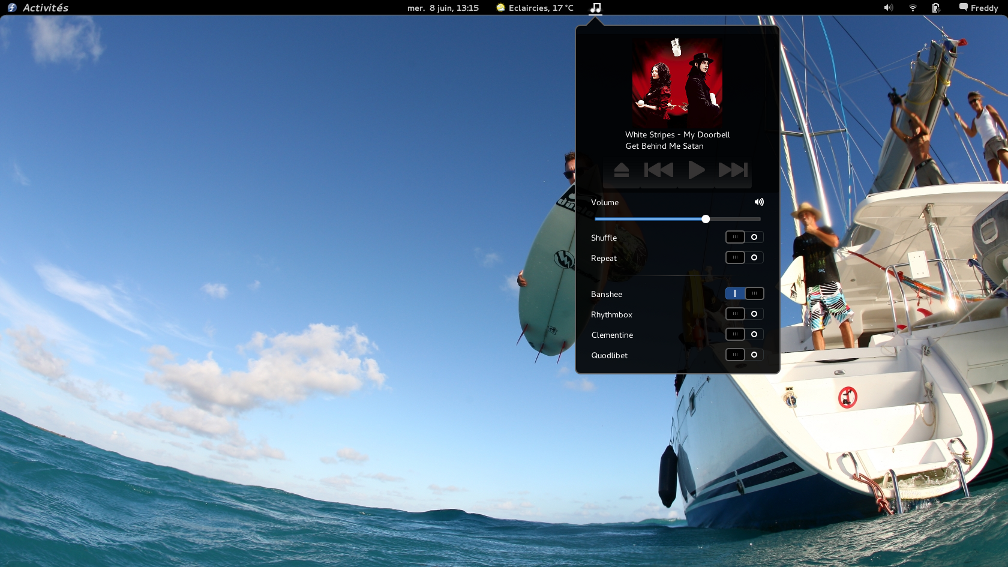
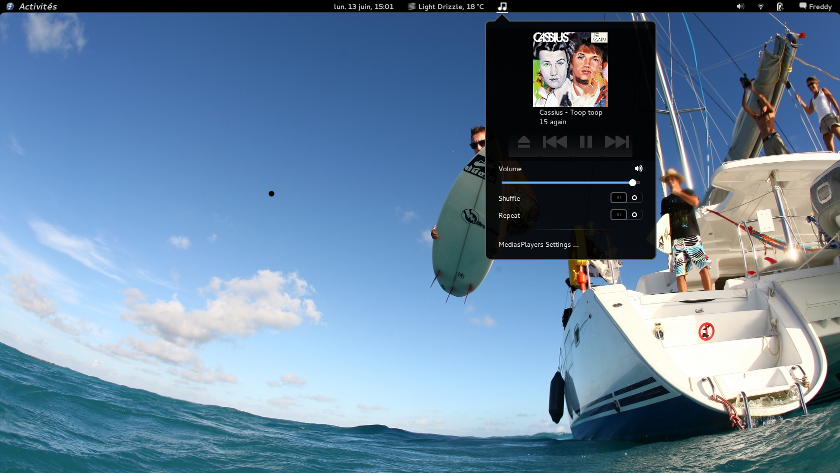
MediasPlayers settings added.

diff --git a/mediasplayers@ycdref/extension.js b/mediasplayers@ycdref/extension.js
@@ -47,10 +47,11 @@ const PropIFace = {
 const VOLUME_ADJUSTMENT_STEP = 0.05; /* Volume adjustment step in % */
 const VOLUME_NOTIFY_ID = 1;
 
-var PLAYER_DEFAULT = "org.mpris.MediaPlayer2.banshee";
+var PLAYER_DEFAULT = "";//"org.mpris.MediaPlayer2.banshee";
 var DEFAULT_APP ="banshee-media-player.desktop";
 var PLAYPAUSE=0;
 var COVER_PATH="";
+var SETTING_APP="";
 
 function Prop() {
     this._init();
@@ -180,7 +181,9 @@ Indicator.prototype = {
 
     _init: function() {
         
-	//this._settings = getSettings("org.gnome.shell.extensions.mediasplayers");
+	this._schema = new Gio.Settings({ schema: 'org.gnome.shell.extensions.mediasplayers' });
+	SETTING_APP = this._schema.get_string("player");
+
 
         this._pIcon = new St.Icon({
             icon_type: St.IconType.SYMBOLIC,
@@ -196,8 +199,6 @@ Indicator.prototype = {
         Main.panel._centerBox.add(this.actor, { y_fill: true });
         Main.panel._menus.addMenu(this.menu);
 
-        this._mediaServer = new MediaServer2Player();
-        this._prop = new Prop();
         
         this._songCover = new St.Bin({});
         this._songInformations = new St.Bin({});
@@ -219,7 +220,7 @@ Indicator.prototype = {
         infos.add_actor(this._album);
 
         let controlsBox = new St.BoxLayout();
-		this._controlsButtons.set_child(controlsBox);
+	this._controlsButtons.set_child(controlsBox);
 
         this._openApp = new St.Button({ style_class: 'button' });
         this._openApp.connect('clicked', Lang.bind(this, this._loadPlayer));
@@ -227,7 +228,7 @@ Indicator.prototype = {
         
         this._mediaPrev = new St.Button({ style_class: 'button' });
         this._mediaPrev.connect('clicked', Lang.bind(this,  
-			function () {
+	function () {
         		this._mediaServer.PreviousRemote();
 	            this._updateMetadata();
 	            this._mediaPlay.set_child(mediaPauseI);
@@ -316,10 +317,10 @@ Indicator.prototype = {
 	        this._updateSwitches();
 	    }));
 	    this.menu.addMenuItem(this._repeat);
-	    
+	    /*
 	    this.menu.addMenuItem(new PopupMenu.PopupSeparatorMenuItem());
 
-		this._banshee = new PopupMenu.PopupSwitchMenuItem(_("Banshee"), true);
+		this._banshee = new PopupMenu.PopupSwitchMenuItem(_("Banshee"), false);
 		this._banshee.connect('toggled', Lang.bind(this, function(item) {
 	            DEFAULT_APP = 'banshee-media-player.desktop';
 	            this._appPlayer("org.mpris.MediaPlayer2.banshee");
@@ -355,8 +356,46 @@ Indicator.prototype = {
 		this.menu.addMenuItem(this._banshee);
 		this.menu.addMenuItem(this._rhythmbox);
 		this.menu.addMenuItem(this._clementine);
-		this.menu.addMenuItem(this._quodlibet);
+		this.menu.addMenuItem(this._quodlibet);*/
 	    
+	switch (SETTING_APP){
+           case "1":
+		DEFAULT_APP = 'banshee-media-player.desktop';
+		PLAYER_DEFAULT = "org.mpris.MediaPlayer2.banshee";
+		/*this._banshee.setToggleState(true);	            
+		this._rhythmbox.setToggleState(false);
+	        this._clementine.setToggleState(false);
+	        this._quodlibet.setToggleState(false);*/
+	   break;
+           case "2": 
+		DEFAULT_APP = 'rhythmbox.desktop';
+		PLAYER_DEFAULT = "org.mpris.MediaPlayer2.rhythmbox";
+		/*this._banshee.setToggleState(false);	            
+		this._rhythmbox.setToggleState(true);
+	        this._clementine.setToggleState(false);
+	        this._quodlibet.setToggleState(false);*/
+	   break;
+           case "3": 
+		DEFAULT_APP = 'clementine.desktop';
+		PLAYER_DEFAULT = "org.mpris.MediaPlayer2.clementine";
+		/*this._banshee.setToggleState(false);	            
+		this._rhythmbox.setToggleState(false);
+	        this._clementine.setToggleState(true);
+	        this._quodlibet.setToggleState(false);*/
+	   break;
+           case "4": 
+		DEFAULT_APP = 'quodlibet.desktop';
+		PLAYER_DEFAULT ="org.mpris.MediaPlayer2.quodlibet";
+		/*this._banshee.setToggleState(false);	            
+		this._rhythmbox.setToggleState(false);
+	        this._clementine.setToggleState(false);
+	        this._quodlibet.setToggleState(true);*/
+	   break;
+	}
+	
+	this._mediaServer = new MediaServer2Player();
+        this._prop = new Prop();
+		
         this.menu.addMenuItem(new PopupMenu.PopupSeparatorMenuItem());
 
         item = new PopupMenu.PopupMenuItem(_("MediasPlayers Settings ..."));

diff --git a/README.md b/README.md
@@ -11,6 +11,8 @@ Follow the @ycdref account on Twitter to know the Updates
 ### Installation
 
 1. Put directory `mediasplayers@ycdref/` in `~/.local/share/gnome-shell/extensions/`
+2. As Root, put the file  `mediasplayers@ycdref/org.gnome.shell.extensions.mediasplayers.gschema.xml` in `/usr/share/glib-2.0/schemas/`
+3. As Root, # glib-compile-schemas /usr/share/glib-2.0/schemas/
 2. Restart Gnome Shell (`[Alt]+[F2]`, `r`)
 3. Enjoy, contribute, ...
 
